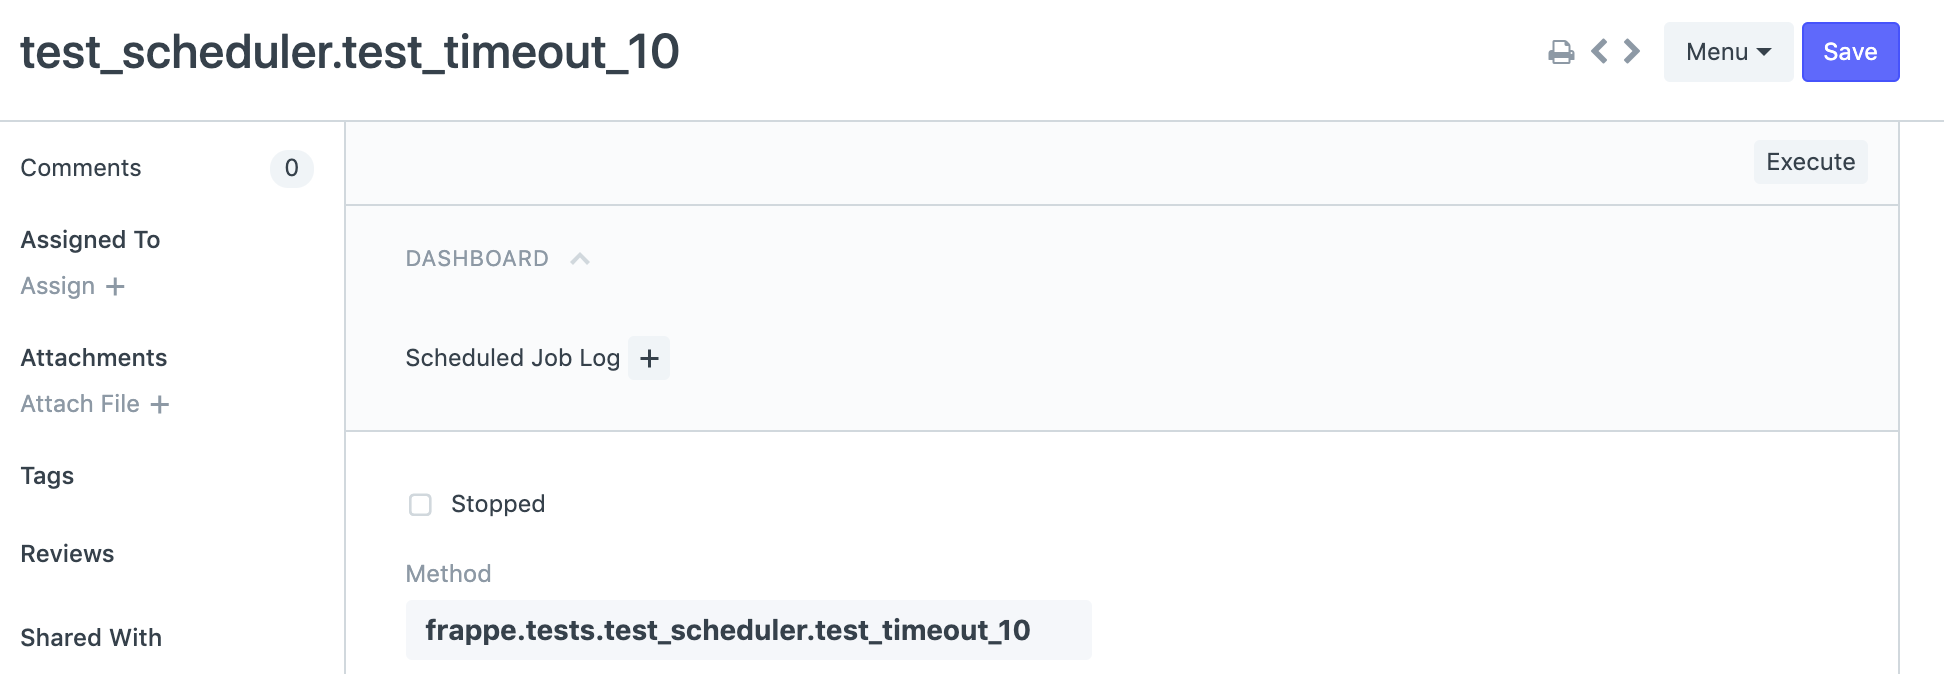
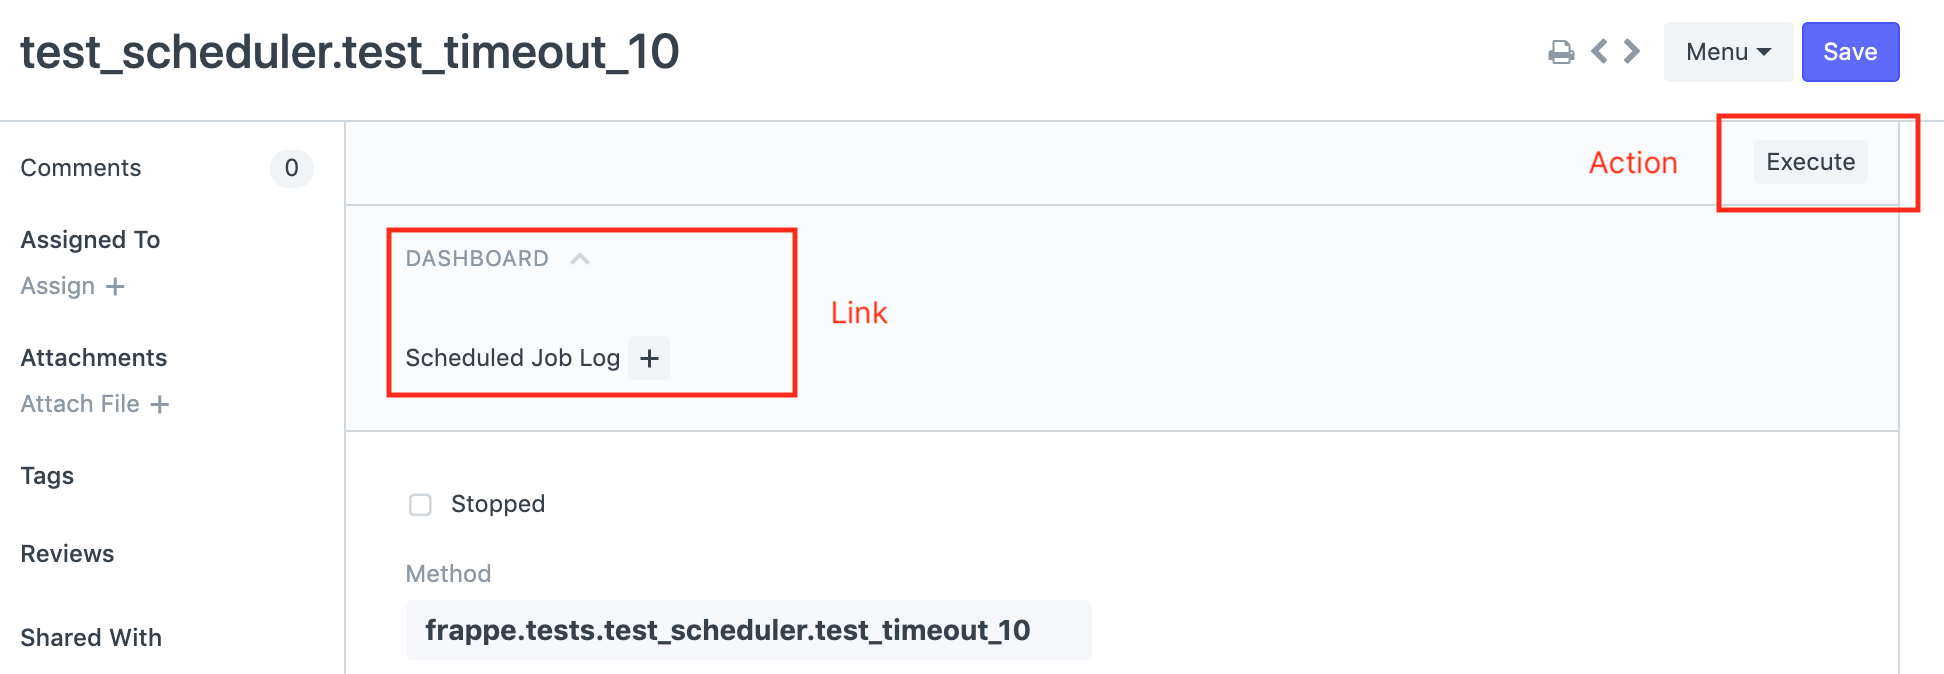
feat: Add customize and add section for Custom Links and Actions

diff --git a/frappe_docs/www/docs/user/en/basics/doctypes/customize.md b/frappe_docs/www/docs/user/en/basics/doctypes/customize.md
@@ -1,0 +1,37 @@
+---
+add_breadcrumbs: 1
+title: Customizing DocTypes
+image: /assets/frappe_io/images/frappe-framework-logo-with-padding.png
+metatags:
+ description: >
+  Frappe allows additional customization for DocTypes on top of standard settings. These customizations can be different for each site (tenant).
+---
+
+# Customizing DocTypes
+
+If you are using the same application for multiple site (tenants), each site may want specific customization on top of the DocType. For example if you have a "Customer" DocType each user may want addition Custom Fields or naming or other configuration that would be specific to them.
+
+To allow for site-specific customization, Frappe Framework has multiple approaches
+
+1. Custom Field: A DocType that keeps track of site-specific fields.
+1. Property Setter: This keeps track of specific properties that are overridden in DocType and its children.
+1. Customize Form: A view that helps you easily customize DocTypes
+1. Custom Script: Additional client-side event handlers.
+1. [Server Script](/docs/user/en/desk/scripting/server-script): Additional server-side business logic.
+1. Custom DocPerm: Additional Permission (handled via Role Permission Manager)
+
+## Customize Form
+
+Customize Form is a view that helps you override properties of a DocType and add Custom Fields via a single view.
+
+![Customize Form](/docs/assets/img/basics/customize-form.png)
+
+When you change any properties of the DocType via Customize Form, it will not change the underlying DocType but add new custom objects to override those properties. This is done in a seamless manner.
+
+#### Adding Custom Links and Actions
+
+> Added in Version 13
+
+You can also add / edit Links and Actions via Customize Form. These changes are saved in the same DocTypes (`DocType Link` and `DocType Action`) but with a `custom` property checked.
+
+These addtional (custom) configurations are automatically applied when metadata is fetched via `frappe.get_meta`.

diff --git a/frappe_docs/www/docs/user/en/basics/doctypes/actions-and-links.md b/frappe_docs/www/docs/user/en/basics/doctypes/actions-and-links.md
@@ -12,7 +12,7 @@ metatags:
 
 **Actions**
 
-A DocType may also have `Daily Action` that will result in a button creation on the DocType View. Supported actions are:
+A DocType may also have `DocType Action` that will result in a button creation on the DocType View. Supported actions are:
 
 1. **Server Action**: This will trigger a whitelisted server action.
 
@@ -25,3 +25,7 @@ A standard navigation aid to the DocType view is the `Links` section on the dash
 ![Action and Link Configuration](/docs/assets/img/doctypes/action-link-config.png)
 
 ![Action and Link View](/docs/assets/img/doctypes/action-link.png)
+
+### Customization of Actions and Links
+
+DocType Actions and Links are extensible via [Customize Form](customize)

diff --git a/frappe_docs/www/docs/user/en/basics/doctypes/index.md b/frappe_docs/www/docs/user/en/basics/doctypes/index.md
@@ -1,7 +1,7 @@
 ---
 add_breadcrumbs: 1
 page_toc: 1
-title: Understanding DocTypes
+title: DocTypes
 image: /assets/frappe_io/images/frappe-framework-logo-with-padding.png
 metatags:
  description: >
@@ -21,6 +21,7 @@ metatags:
 1. [Child DocType](doctypes/child-doctype)
 1. [Single DocType](doctypes/single-doctype)
 1. [Actions and Links](doctypes/actions-and-links)
+1. [Customizing DocTypes](doctypes/customize)
 
 ## Introduction
 

diff --git a/frappe_docs/www/docs/user/en/basics/index.md b/frappe_docs/www/docs/user/en/basics/index.md
@@ -1,7 +1,7 @@
 ---
 add_breadcrumbs: 1
 page_toc: 1
-title: What is Frappe Framework?
+title: Basics
 image: /assets/frappe_io/images/frappe-framework-logo-with-padding.png
 metatags:
  description: Frappe is a full stack, batteries-included, web framework written in Python and Javascript.
